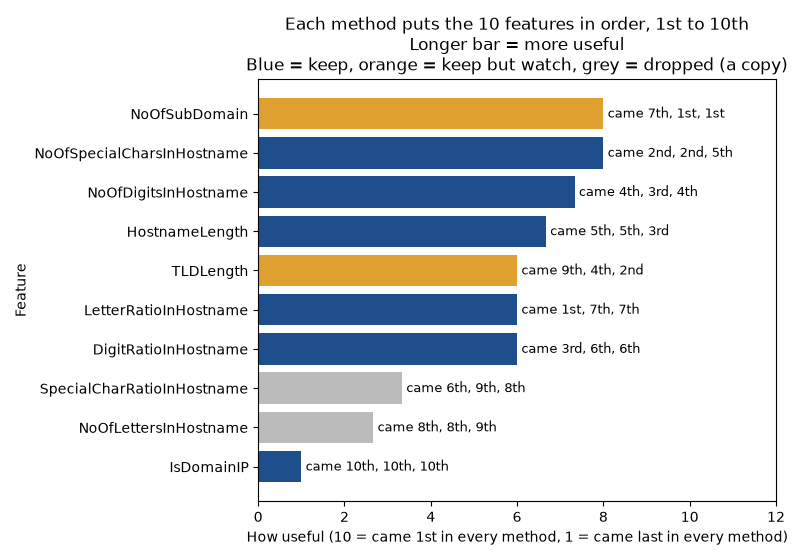
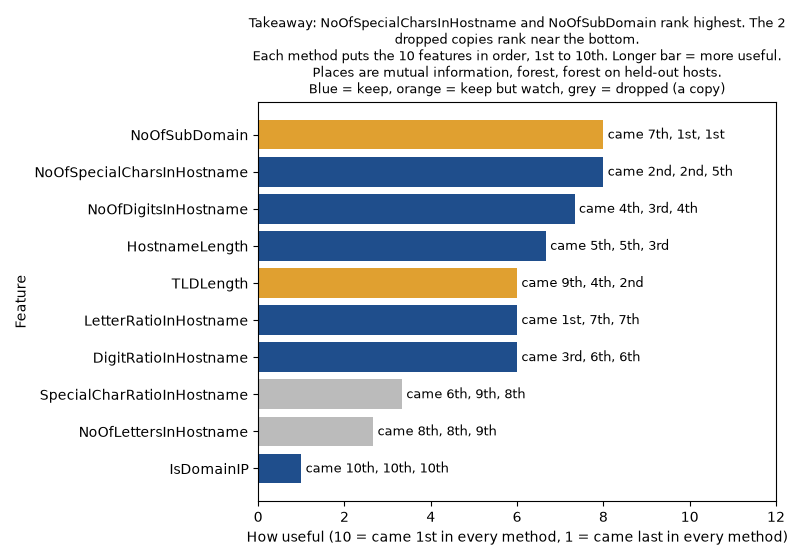
ALG-69 regenerate the final list and chart after the review fixes

diff --git a/ml/reports/final_feature_list.md b/ml/reports/final_feature_list.md
@@ -9,7 +9,7 @@ The model trains on these 8 of the ten hostname features. Each method put the te
 | Feature | Places (mutual information, forest, forest on held-out hosts) | Why it stays |
 |---|---|---|
 | `HostnameLength` | 5th, 5th, 3rd | Long hosts are a common phishing trick. It came higher than NoOfLettersInHostname, so it is the one of that pair that stays. |
-| `IsDomainIP` | 10th, 10th, 10th | It came last in every method because only 510 of 188,295 training links use an IP address. It stays because a link that uses an IP address is a clear warning the result card can show. |
+| `IsDomainIP` | 10th, 10th, 10th | It came last in all three methods that look at the label because only 510 of 188,295 training links use an IP address. It stays because a link that uses an IP address is a clear warning the result card can show. |
 | `TLDLength` | 9th, 4th, 2nd | Kept, but watched. Common endings like .com are typical of the big sites' front pages that make up the legitimate links. |
 | `NoOfSubDomain` | 7th, 1st, 1st | Kept, but watched. Few subdomains is typical of the big sites' front pages that make up the legitimate links. |
 | `LetterRatioInHostname` | 1st, 7th, 7th | It came 1st by mutual information. It shows how much of the host is letters, which no count shows. |
